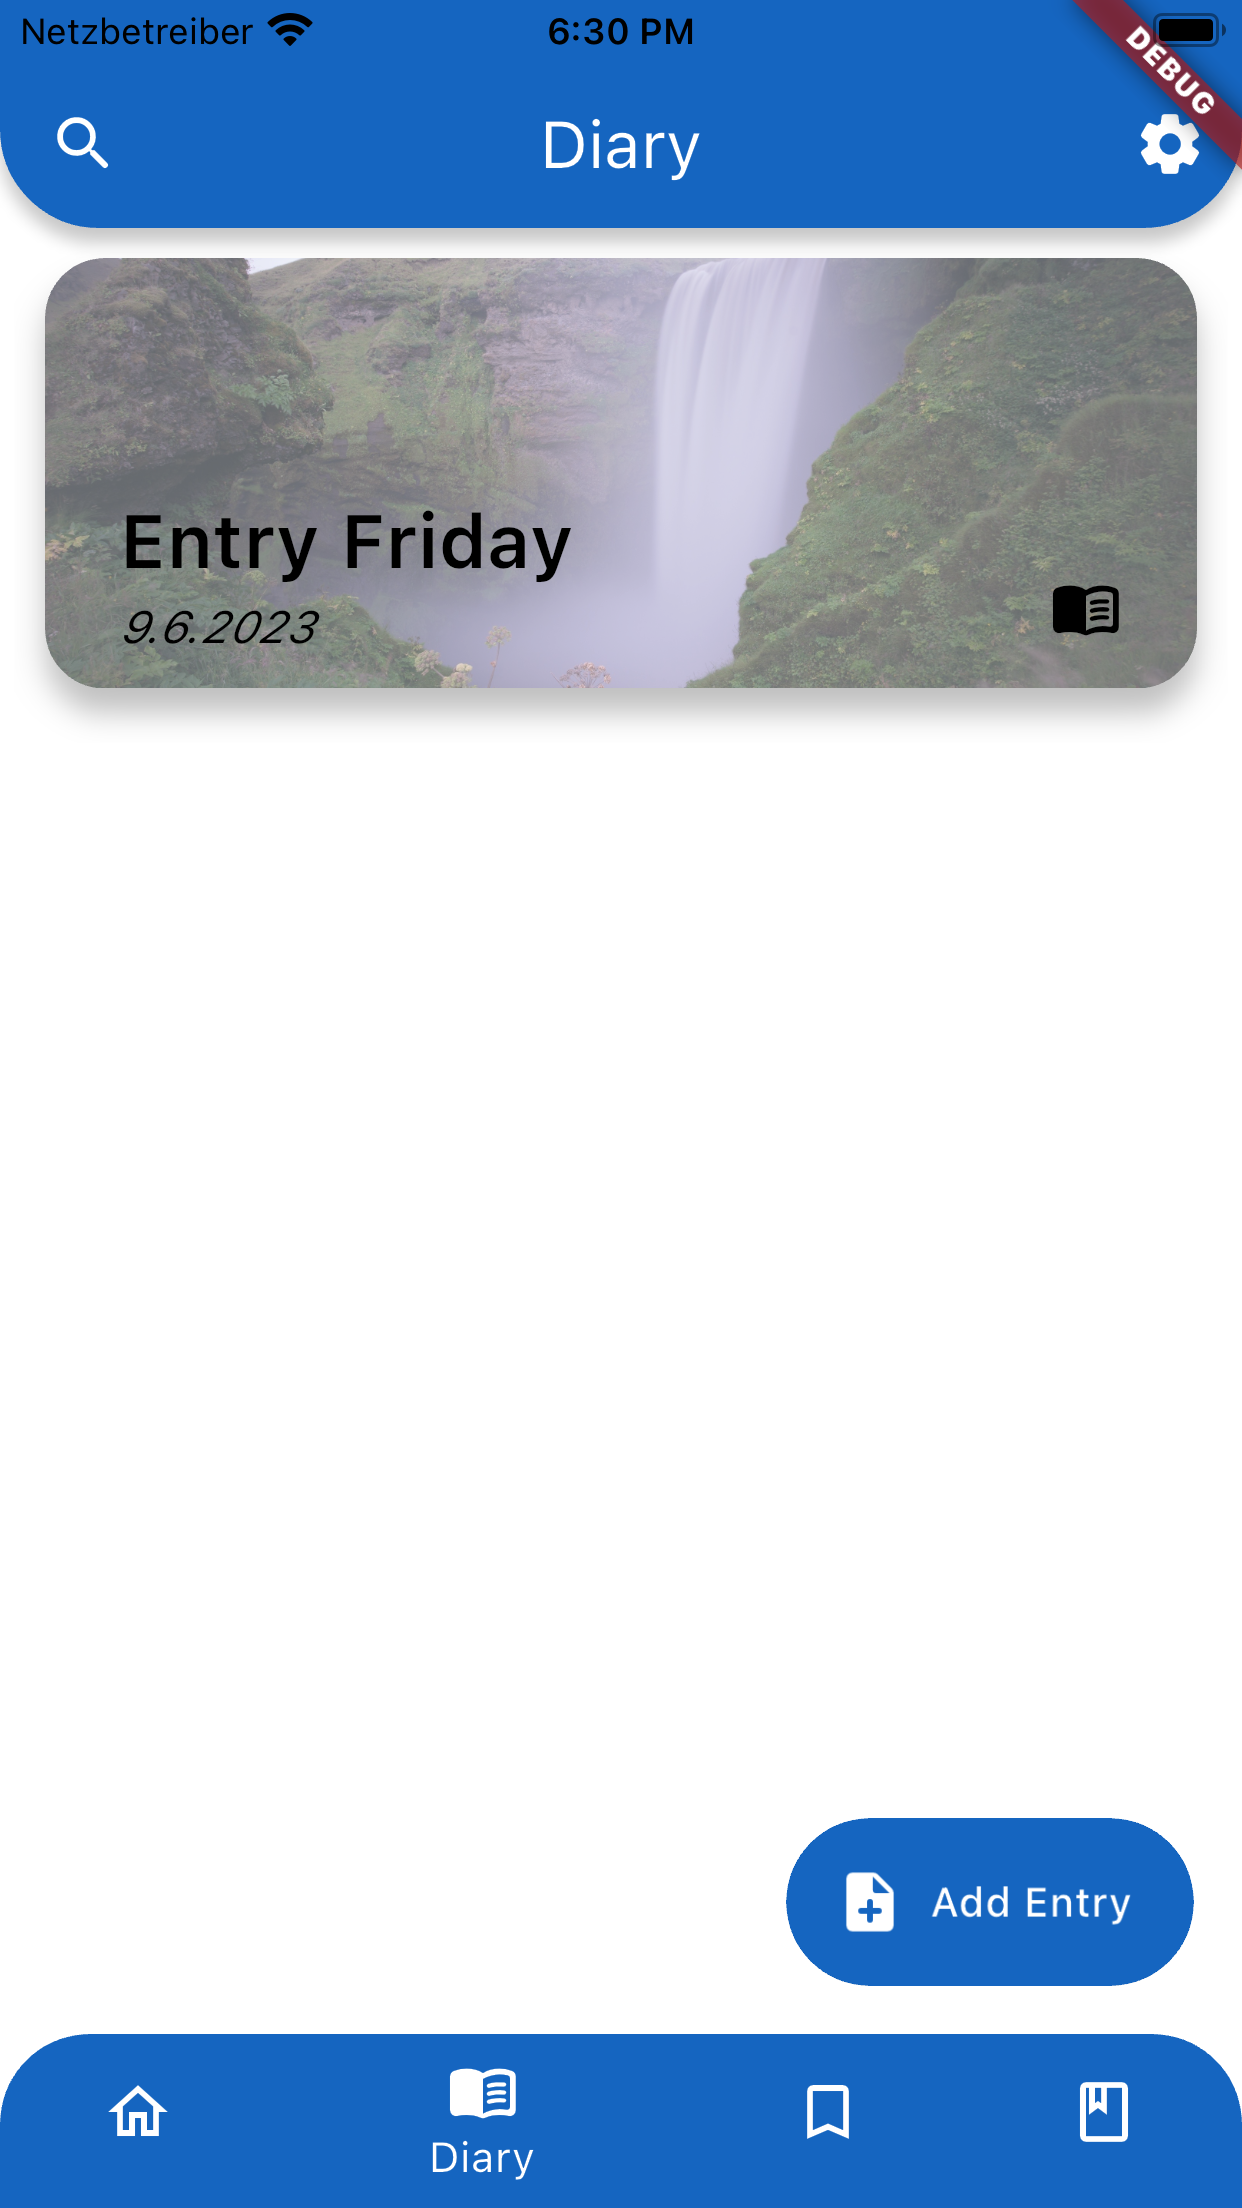
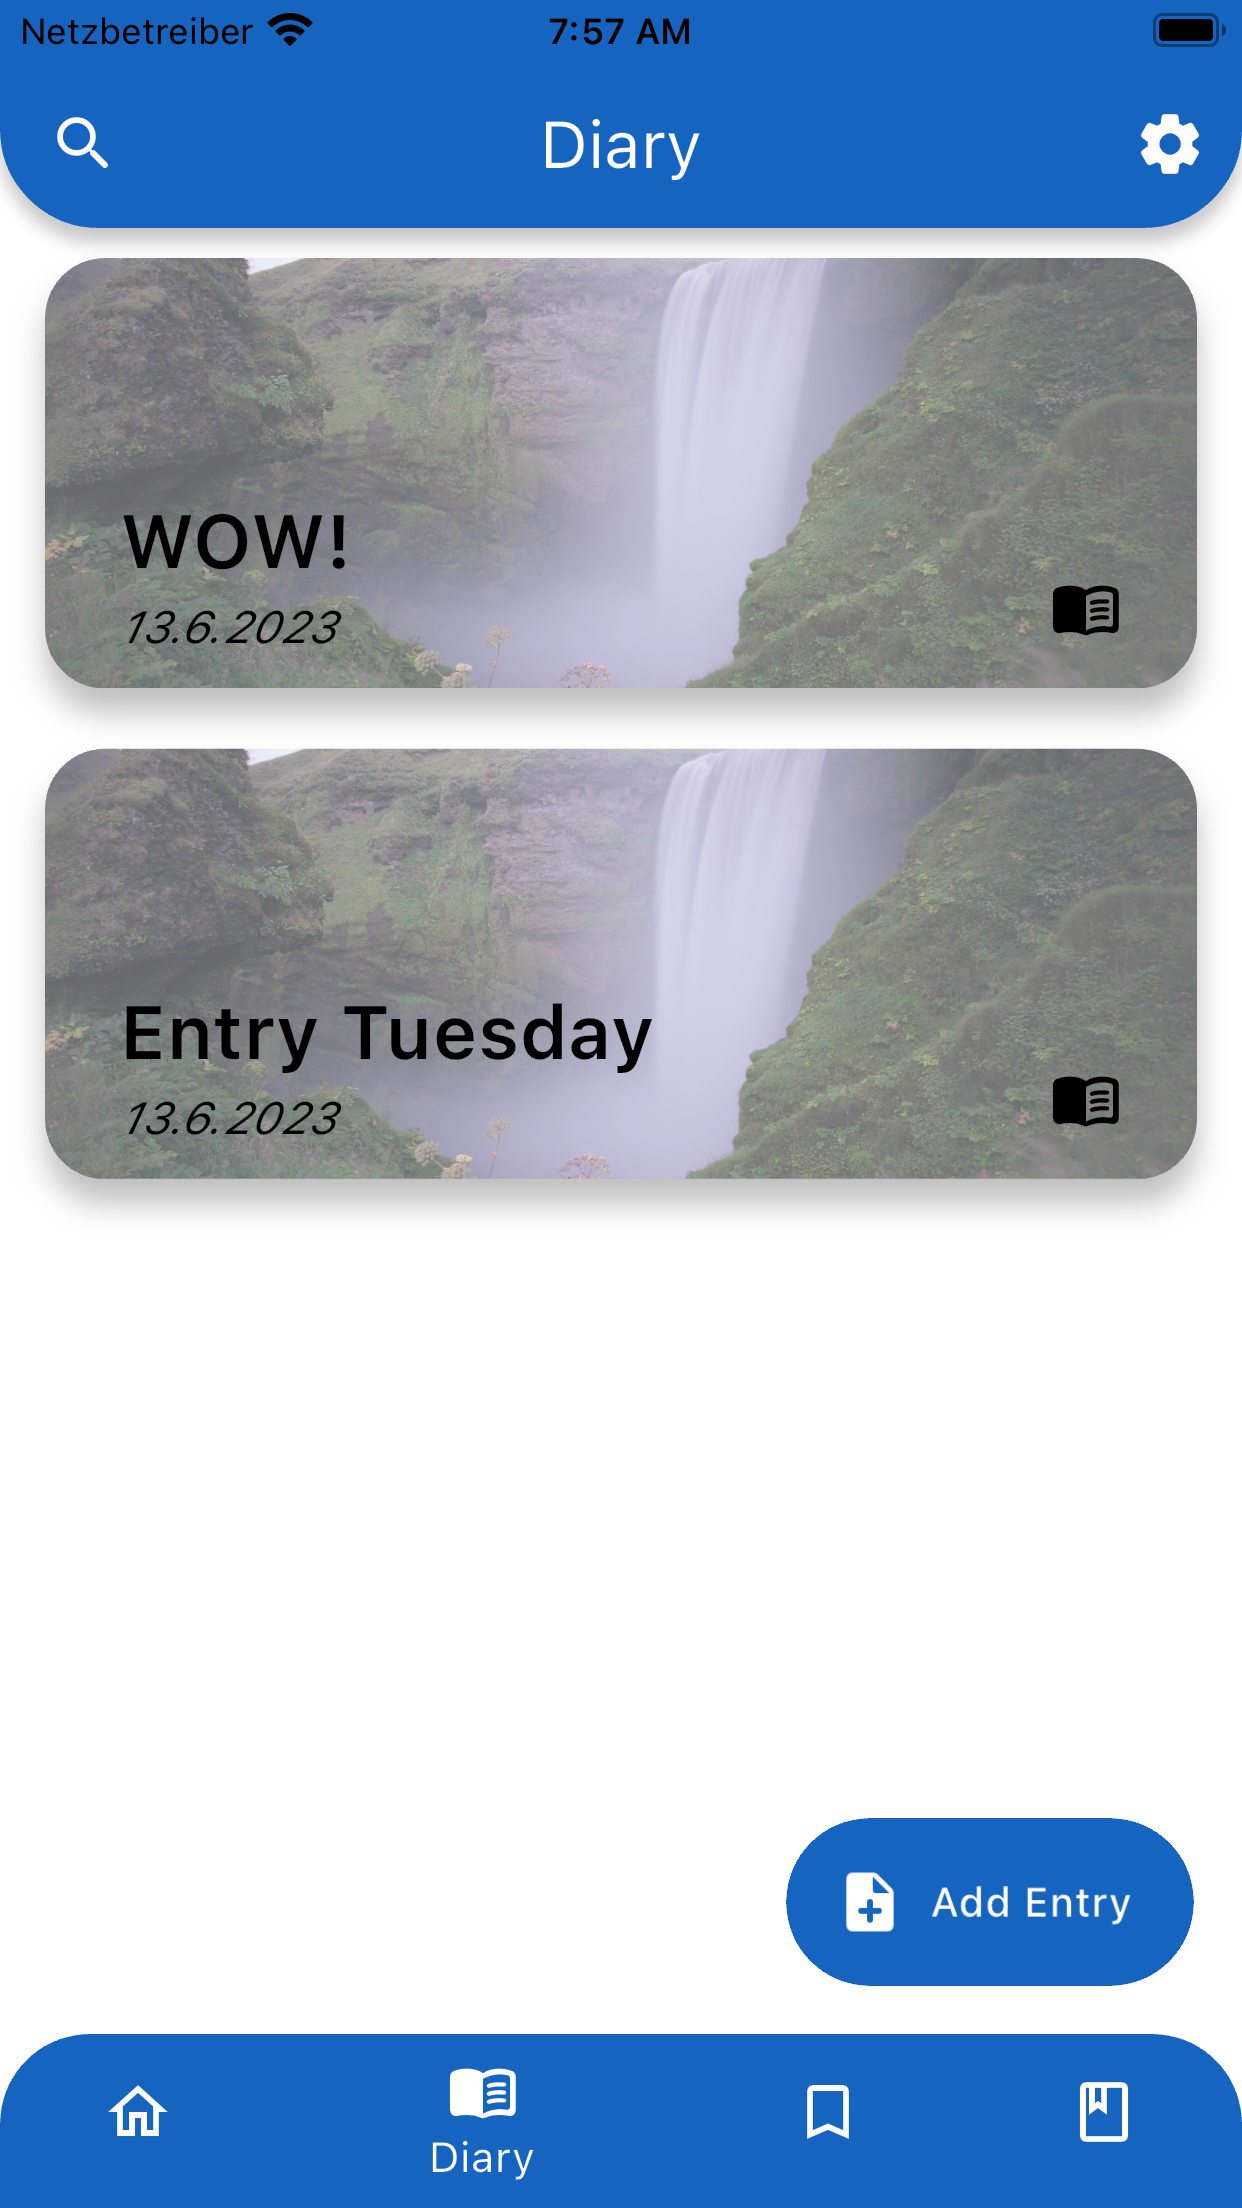
Update for Version 1.1.0

Changed region(s): [[0.0306, 0.2188, 0.9791, 0.5625], [0.8567, 0.0, 1.0, 0.0938], [0.4283, 0.0, 0.5507, 0.0312]]

diff --git a/lib/screens/mobile/settings_screen_mobile.dart b/lib/screens/mobile/settings_screen_mobile.dart
@@ -167,7 +167,7 @@ class _SettingsScreenMobileState extends State<SettingsScreenMobile> {
                   ),
                   const SizedBox(height: 5),
                   const Text(
-                    '© Julian Schumacher \n2022',
+                    '© Julian Schumacher \n2023',
                     textAlign: TextAlign.center,
                   ),
                 ],
@@ -190,10 +190,10 @@ class _SettingsScreenMobileState extends State<SettingsScreenMobile> {
         uri = Uri.parse('https://www.facebook.com/jules.mediadesign');
         break;
       case OpenURL.mail:
-        uri = Uri.parse('mailto:Jules.media@outlook.de');
+        uri = Uri.parse('mailto:support@julianschumacher.dev');
         break;
       case OpenURL.code:
-        uri = Uri.parse('https://github.com/Jules-sh/Reading-Diary');
+        uri = Uri.parse('https://github.com/Julessh05/Reading-Diary');
         break;
     }
     await launchUrl(uri, mode: LaunchMode.platformDefault);

diff --git a/lib/main.dart b/lib/main.dart
@@ -24,7 +24,7 @@ void main() async {
 
 /// The current Version of the App
 /// as a String.
-const String appVersion = '1.0.0';
+const String appVersion = '1.1.0';
 
 /// Determines the Platform this Apps is running on.
 /// Also sets the [WidgetRouter.isDesktop] Variable.
@@ -79,7 +79,9 @@ class _ReadingDiaryState extends State<ReadingDiary> {
       /* Developer Section */
       checkerboardOffscreenLayers: false,
       checkerboardRasterCacheImages: false,
-      debugShowCheckedModeBanner: true,
+
+      // Set to false to make Screenshots.
+      debugShowCheckedModeBanner: false,
       showPerformanceOverlay: false,
       showSemanticsDebugger: false,
       debugShowMaterialGrid: false,

diff --git a/macos/Flutter/GeneratedPluginRegistrant.swift b/macos/Flutter/GeneratedPluginRegistrant.swift
@@ -5,10 +5,12 @@
 import FlutterMacOS
 import Foundation
 
+import file_selector_macos
 import path_provider_foundation
 import url_launcher_macos
 
 func RegisterGeneratedPlugins(registry: FlutterPluginRegistry) {
+  FileSelectorPlugin.register(with: registry.registrar(forPlugin: "FileSelectorPlugin"))
   PathProviderPlugin.register(with: registry.registrar(forPlugin: "PathProviderPlugin"))
   UrlLauncherPlugin.register(with: registry.registrar(forPlugin: "UrlLauncherPlugin"))
 }

diff --git a/linux/flutter/generated_plugin_registrant.cc b/linux/flutter/generated_plugin_registrant.cc
@@ -6,9 +6,13 @@
 
 #include "generated_plugin_registrant.h"
 
+#include <file_selector_linux/file_selector_plugin.h>
 #include <url_launcher_linux/url_launcher_plugin.h>
 
 void fl_register_plugins(FlPluginRegistry* registry) {
+  g_autoptr(FlPluginRegistrar) file_selector_linux_registrar =
+      fl_plugin_registry_get_registrar_for_plugin(registry, "FileSelectorPlugin");
+  file_selector_plugin_register_with_registrar(file_selector_linux_registrar);
   g_autoptr(FlPluginRegistrar) url_launcher_linux_registrar =
       fl_plugin_registry_get_registrar_for_plugin(registry, "UrlLauncherPlugin");
   url_launcher_plugin_register_with_registrar(url_launcher_linux_registrar);
